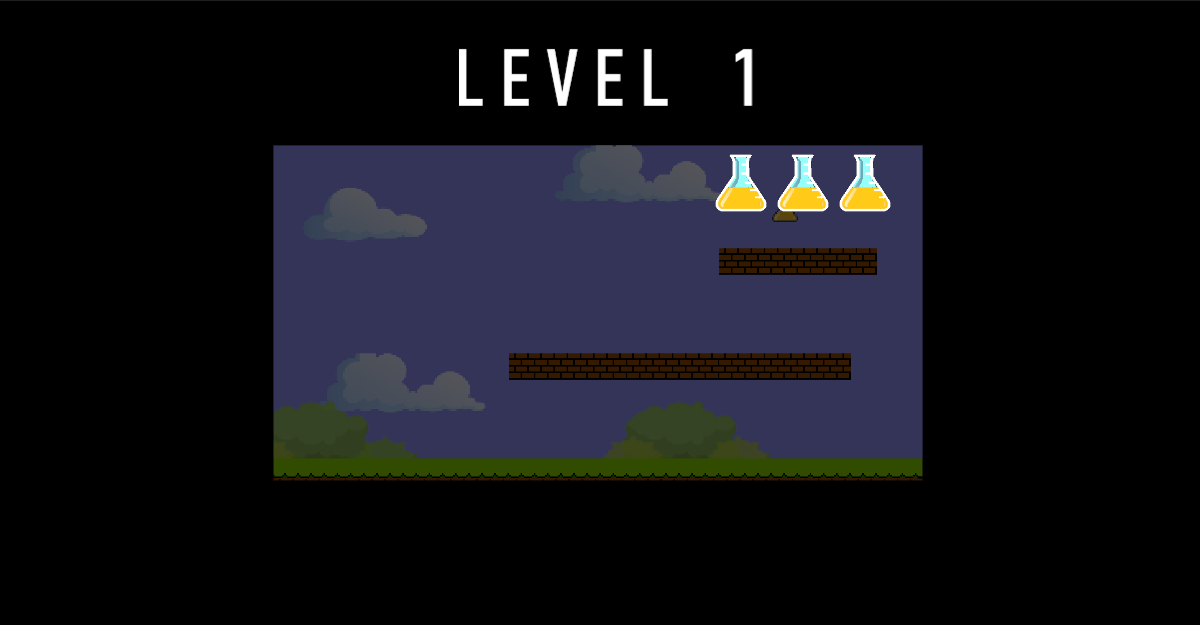
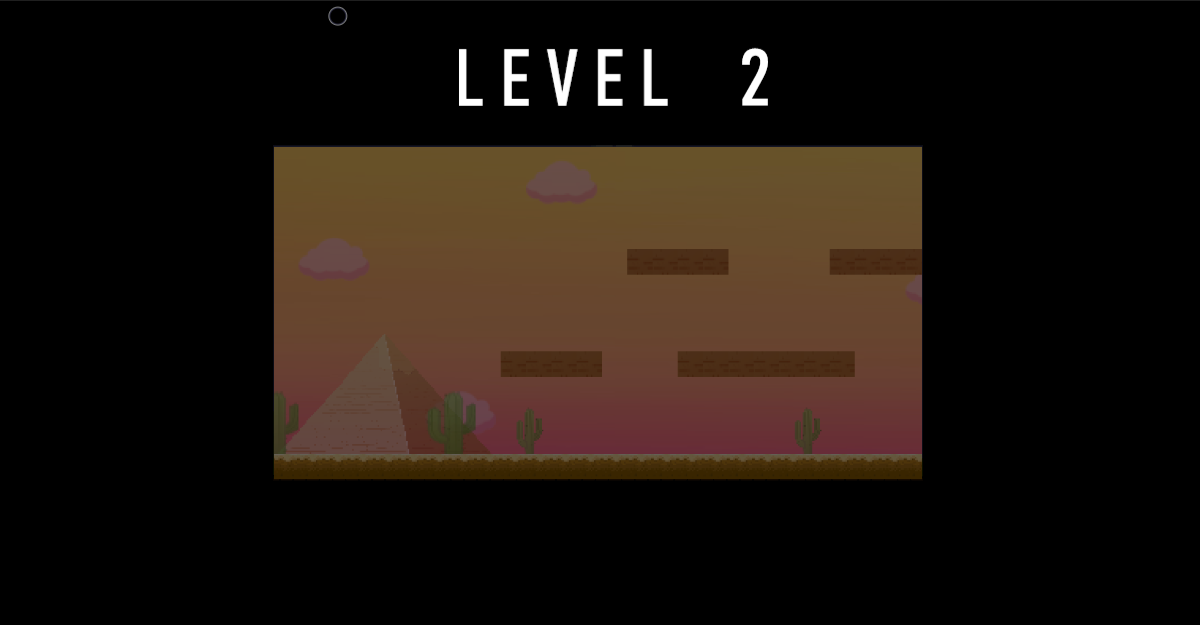
graphics, proplem with mainScreen!

Changed region(s): [[0.2158, 0.2128, 0.7708, 0.7904], [0.6167, 0.0608, 0.6475, 0.1824]]

diff --git a/core/src/com/marsik/screens/LevelScreen.java b/core/src/com/marsik/screens/LevelScreen.java
@@ -11,6 +11,7 @@ import com.badlogic.gdx.scenes.scene2d.InputEvent;
 import com.badlogic.gdx.scenes.scene2d.Stage;
 import com.badlogic.gdx.scenes.scene2d.ui.Image;
 import com.badlogic.gdx.scenes.scene2d.ui.ImageButton;
+import com.badlogic.gdx.scenes.scene2d.ui.Table;
 import com.badlogic.gdx.scenes.scene2d.utils.ClickListener;
 import com.badlogic.gdx.scenes.scene2d.utils.Drawable;
 import com.badlogic.gdx.scenes.scene2d.utils.TextureRegionDrawable;
@@ -34,26 +35,26 @@ public class LevelScreen implements Screen {
         this.game = game;
         this.level = level;
         batch = new SpriteBatch();
-        if(level==0) backgroundImage = new Texture("l2.png");
-        if(level==1) backgroundImage = new Texture("cl2.png");
-        if(level==2) backgroundImage = new Texture("clouds.png");
+        if(level==0) backgroundImage = new Texture("l10.png");
+        if(level==1) backgroundImage = new Texture("l20.png");
+        if(level==2) backgroundImage = new Texture("l30.png");
 
         stage = new Stage(new FitViewport(Gdx.graphics.getWidth(), Gdx.graphics.getHeight()));
 
-        Texture playTexture = new Texture(Gdx.files.internal("sample1.png"));
+        Texture playTexture = new Texture(Gdx.files.internal("buttonL1.png"));
         Drawable drawable = new TextureRegionDrawable(new TextureRegion(playTexture));
         buttonPlay = new ImageButton(drawable);
 
-        Texture instrTexture = new Texture(Gdx.files.internal("sample2.png"));
+        Texture instrTexture = new Texture(Gdx.files.internal("buttonL2.png"));
         Drawable drawable1 = new TextureRegionDrawable(new TextureRegion(instrTexture));
         buttonMenu = new ImageButton(drawable1);
 
-        Texture leftTexture = new Texture(Gdx.files.internal("bonus1.png"));
+        Texture leftTexture = new Texture(Gdx.files.internal("buttonL3.png"));
         Drawable drawable2 = new TextureRegionDrawable(new TextureRegion(leftTexture));
         buttonLeft = new ImageButton(drawable2);
 
-        Texture rightTexture = new Texture(Gdx.files.internal("bonus2.png"));
-        Drawable drawable3 = new TextureRegionDrawable(new TextureRegion(instrTexture));
+        Texture rightTexture = new Texture(Gdx.files.internal("buttonL4.png"));
+        Drawable drawable3 = new TextureRegionDrawable(new TextureRegion(rightTexture));
         buttonRight = new ImageButton(drawable3);
 
         buttonPlay.addListener(new ClickListener() {
@@ -106,10 +107,22 @@ public class LevelScreen implements Screen {
             }
         });
 
-        stage.addActor(buttonPlay);
-        stage.addActor(buttonMenu);
-        stage.addActor(buttonLeft);
-        stage.addActor(buttonRight);
+        Table table = new Table();
+        table.setFillParent(true);
+        stage.addActor(table);
+
+        table.center();
+
+        table.add(buttonLeft).pad(0,-200f,0,200f);
+        table.add(buttonPlay).pad(0,100f,0,100f);
+        table.add(buttonRight).pad(0,200f,0,-200f);
+
+        Table table2 = new Table();
+        table2.setFillParent(true);
+        stage.addActor(table2);
+
+        table2.bottom();
+        table2.add(buttonMenu).padBottom(30f);
 
         Gdx.input.setInputProcessor(stage);
 
@@ -129,6 +142,9 @@ public class LevelScreen implements Screen {
         batch.begin();
         batch.draw(backgroundImage, 0, 0, Gdx.graphics.getWidth(), Gdx.graphics.getHeight());
         batch.end();
+
+        stage.act(delta);
+        stage.draw();
 
 
         if (Gdx.input.isKeyJustPressed(Input.Keys.LEFT)) {
@@ -199,6 +215,7 @@ public class LevelScreen implements Screen {
     @Override
     public void dispose() {
 
+        stage.dispose();
         batch.dispose();
         backgroundImage.dispose();
     }

diff --git a/core/src/com/marsik/screens/WinScreen.java b/core/src/com/marsik/screens/WinScreen.java
@@ -11,6 +11,7 @@ import com.badlogic.gdx.graphics.g2d.TextureRegion;
 import com.badlogic.gdx.scenes.scene2d.InputEvent;
 import com.badlogic.gdx.scenes.scene2d.Stage;
 import com.badlogic.gdx.scenes.scene2d.ui.ImageButton;
+import com.badlogic.gdx.scenes.scene2d.ui.Table;
 import com.badlogic.gdx.scenes.scene2d.utils.ClickListener;
 import com.badlogic.gdx.scenes.scene2d.utils.Drawable;
 import com.badlogic.gdx.scenes.scene2d.utils.TextureRegionDrawable;
@@ -34,16 +35,16 @@ public class WinScreen implements Screen {
     public WinScreen(final MarsikGame game) {
         this.game = game;
         batch = new SpriteBatch();
-        backgroundImage = new Texture("ufo.png");
+        backgroundImage = new Texture("win.png");
 
         stage = new Stage(new FitViewport(Gdx.graphics.getWidth(), Gdx.graphics.getHeight()));
 
-        Texture playTexture = new Texture(Gdx.files.internal("sample1.png"));
-        Drawable drawable = new TextureRegionDrawable(new TextureRegion(playTexture));
+        Texture instrTexture = new Texture(Gdx.files.internal("buttonW1.png"));
+        Drawable drawable = new TextureRegionDrawable(new TextureRegion(instrTexture));
         buttonMenu = new ImageButton(drawable);
 
-        Texture instrTexture = new Texture(Gdx.files.internal("sample2.png"));
-        Drawable drawable1 = new TextureRegionDrawable(new TextureRegion(instrTexture));
+        Texture playTexture = new Texture(Gdx.files.internal("buttonW2.png"));
+        Drawable drawable1 = new TextureRegionDrawable(new TextureRegion(playTexture));
         buttonNext = new ImageButton(drawable1);
 
         buttonMenu.addListener(new ClickListener() {
@@ -64,8 +65,13 @@ public class WinScreen implements Screen {
             }
         });
 
-        stage.addActor(buttonMenu);
-        stage.addActor(buttonNext);
+        Table table = new Table();
+        table.setFillParent(true);
+        stage.addActor(table);
+
+        table.bottom();
+        table.add(buttonMenu).pad(0,-150f,40f, 250f);
+        table.add(buttonNext).pad(0,250f,40f, -150f);
 
         Gdx.input.setInputProcessor(stage);
 
@@ -85,6 +91,9 @@ public class WinScreen implements Screen {
         batch.begin();
         batch.draw(backgroundImage, 0, 0, Gdx.graphics.getWidth(), Gdx.graphics.getHeight());
         batch.end();
+
+        stage.act(delta);
+        stage.draw();
 
         if (Gdx.input.isKeyPressed(Input.Keys.NUM_1)) {
             System.out.println("next touch");
@@ -120,6 +129,7 @@ public class WinScreen implements Screen {
 
     @Override
     public void dispose() {
+        stage.dispose();
         batch.dispose();
         backgroundImage.dispose();
     }

diff --git a/core/src/com/marsik/screens/MainScreen.java b/core/src/com/marsik/screens/MainScreen.java
@@ -7,9 +7,12 @@ import com.badlogic.gdx.Screen;
 import com.badlogic.gdx.graphics.GL20;
 import com.badlogic.gdx.graphics.Texture;
 import com.badlogic.gdx.graphics.g2d.SpriteBatch;
+import com.badlogic.gdx.scenes.scene2d.Stage;
 import com.badlogic.gdx.scenes.scene2d.ui.Image;
 import com.badlogic.gdx.scenes.scene2d.utils.Drawable;
 import com.badlogic.gdx.utils.ScreenUtils;
+import com.badlogic.gdx.utils.viewport.FitViewport;
+import com.badlogic.gdx.utils.viewport.Viewport;
 import tools.MarsikGame;
 import com.marsik.screens.MenuScreen;
 
@@ -20,6 +23,7 @@ public class MainScreen implements Screen {
     private final MarsikGame game;
     private SpriteBatch batch;
     private Texture backgroundImage;
+
 
     public MainScreen(final MarsikGame game) {
         this.game = game;
@@ -58,7 +62,6 @@ public class MainScreen implements Screen {
 
     @Override
     public void resize(int width, int height) {
-
     }
 
     @Override

diff --git a/core/src/tools/MarsikGame.java b/core/src/tools/MarsikGame.java
@@ -2,10 +2,7 @@ package tools;
 
 import com.badlogic.gdx.Game;
 import com.badlogic.gdx.graphics.g2d.SpriteBatch;
-import com.marsik.screens.GameOverScreen;
-import com.marsik.screens.LevelScreen;
-import com.marsik.screens.MainScreen;
-import com.marsik.screens.PlayScreen;
+import com.marsik.screens.*;
 
 public class MarsikGame extends Game {
 	public static final int V_WIDTH = 400;
@@ -28,7 +25,7 @@ public class MarsikGame extends Game {
 	@Override
 	public void create () {
 		batch = new SpriteBatch();
-		setScreen(new LevelScreen(this, 0));
+		setScreen(new MainScreen(this));
 	}
 
 	@Override
@@ -40,4 +37,5 @@ public class MarsikGame extends Game {
 	public void dispose () {
 		batch.dispose();
 	}
+
 }

diff --git a/core/src/com/marsik/screens/PlayScreen.java b/core/src/com/marsik/screens/PlayScreen.java
@@ -294,11 +294,9 @@ public class PlayScreen implements Screen {
             if(gameOverTimer >= (win ? 5 : 3)) {
                 if(win) {
                     Gdx.app.log("game","win");
-                    game.setScreen(new PlayScreen(game));
                 }
                 else {
                     Gdx.app.log("game","loose");
-                    game.setScreen(new PlayScreen(game));
                 }
                 dispose();
             }

diff --git a/core/src/com/marsik/screens/GameOverScreen.java b/core/src/com/marsik/screens/GameOverScreen.java
@@ -69,9 +69,7 @@ public class GameOverScreen implements Screen {
         table.setFillParent(true);
         stage.addActor(table);
 
-        table.bottom();/*
-        table.add(buttonMenu).pad(20f);
-        table.add(buttonRestart).pad(Gdx.graphics.getWidth()-buttonRestart.getWidth()-20f);*/
+        table.bottom();
         table.add(buttonMenu).pad(0,-150f,40f, 250f);
         table.add(buttonRestart).pad(0,250f,40f, -150f);
 

diff --git a/desktop/src/com/marsik/DesktopLauncher.java b/desktop/src/com/marsik/DesktopLauncher.java
@@ -9,7 +9,7 @@ public class DesktopLauncher {
 		Lwjgl3ApplicationConfiguration config = new Lwjgl3ApplicationConfiguration();
 		config.setWindowedMode(1200, 625);
 		config.setForegroundFPS(60);
-		config.setTitle("Marsik");
+		config.setTitle("MARSIK");
 		new Lwjgl3Application(new MarsikGame(), config);
 	}
 }
